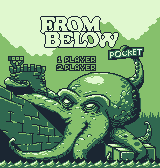
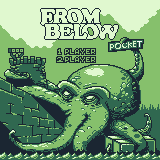
* Added proper Player 1/2 selection to new title screen. * Shifted title screen up on DMG. * Added new options screen.

diff --git a/gb/src/StateFromBelow.c b/gb/src/StateFromBelow.c
@@ -105,11 +105,13 @@ IMPORT_MAP(title_screen);
 IMPORT_MAP(title_screen_dmg);
 IMPORT_MAP(boot_screen);
 IMPORT_MAP(options_screen);
+IMPORT_MAP(options_screen_dmg);
 IMPORT_MAP(ty_screen);
 IMPORT_MAP(gameplay_map);
 
 IMPORT_TILES(font);
 IMPORT_TILES(font_on_black);
+IMPORT_TILES(font_options_bright);
 
 DECLARE_MUSIC(TitleMusic);
 DECLARE_MUSIC(GameplayMusic);
@@ -146,11 +148,10 @@ MUST:
 * Add GB Credits (add make more visible)
 * [SGB] Title screen colors are all wrong now.
 * [SGB] Options screen colors are wrong now.
-* Add "Pocket" to title screen.
+* Update "waiting for host" for new options screen.
 
 SHOULD:
 
-* Updated Options graphics.
 * [SGB] Long delay setting attributes. Can this be done with linear array?
 * [SIO] More variety in garbage.
 * [SIO] Play sound effect/visuals when garbage incoming.
@@ -158,6 +159,7 @@ SHOULD:
 * Bottom of well looks weird going straight into water.
 * High contrast mode.
 * Add Thank You.
+* When transitioning to gameplay from menu, the squish effect kicks in before transition is done, because fade is done inside state change.
 
 PROBABLY CUT:
 
@@ -167,7 +169,6 @@ PROBABLY CUT:
 * Try https://github.com/untoxa/VGM2GBSFX for alternate sfx driver (test integration with music, ROM size, clicking).
 * BUG: Sound Effects cut out music in an un-natural way.
 * BUG: Music sometimes has an extended first note.
-* Updated title screen.
 
 CNR:
 
@@ -986,8 +987,14 @@ void UPDATE()
 				{
 					sub_state = 1;
 					// Show the player options
-					PRINT(6,12,"1 PLAYER");
-					PRINT(6,13,"2 PLAYER");
+					UPDATE_TILE_BY_VALUE(7,6, '\x34', 0x10);
+					UPDATE_TILE_BY_VALUE(7,7, '\x43', 0x10);
+
+					for (local_start_x = 0; local_start_x < 4; ++local_start_x)
+					{
+						UPDATE_TILE_BY_VALUE(8 + local_start_x,6, 0x35 + local_start_x, 0x10);
+						UPDATE_TILE_BY_VALUE(8 + local_start_x,7, 0x35 + local_start_x, 0x10);
+					}
 				}
 			}
 			else if (sub_state == 1) // 1/2 Player State
@@ -1008,8 +1015,8 @@ void UPDATE()
 				}
 
 				// Cursor
-				sprite_data[1] = ((4) << 3) + SCREEN_START_X - 2 - tenatcle_offsets[(tick_count / 16) % 4];
-				sprite_data[0] = ((12 + cur_option) * 7) + SCREEN_START_Y - 1;
+				sprite_data[1] = ((6) << 3) + SCREEN_START_X - 2 - tenatcle_offsets[(tick_count / 16) % 4];
+				sprite_data[0] = ((6 + cur_option) << 3) + SCREEN_START_Y - 1;
 				sprite_data[2] = 16;
 				sprite_data[3] = 1 | (1 << 5);
 				memcpy(oam + (next_oam_idx << 2), sprite_data, sizeof(sprite_data));
@@ -1344,7 +1351,7 @@ void UPDATE()
 				switch (cur_option)
 				{
 
-				case 0: // starting level
+				case 1: // starting level
 
 					if (cur_level < 9 )
 					{
@@ -1356,7 +1363,7 @@ void UPDATE()
 					}
 					break;
 
-				case 1: // Attack style
+				case 0: // Attack style
 
 					//attack_style = (attack_style + 1) % ATTACK_NUM;
 
@@ -1417,7 +1424,7 @@ void UPDATE()
 				switch (cur_option)
 				{
 
-				case 0: // starting level
+				case 1: // starting level
 
 					if (cur_level != 0)
 					{
@@ -1429,7 +1436,7 @@ void UPDATE()
 					}
 					break;
 
-				case 1: // Attack style
+				case 0: // Attack style
 					// if (attack_style == 0)
 					// {
 					// 	attack_style = ATTACK_NUM;
@@ -1510,15 +1517,24 @@ void UPDATE()
 				display_options();
 			}
 
-			sprite_data[1] = (1 << 3) + SCREEN_START_X - 5 + tenatcle_offsets[(tick_count / 16) % 4];
-			sprite_data[0] = (((6) + (cur_option * 2)) * 7) + SCREEN_START_Y - 1;
+			// mode at the top
+			local_start_y = 3;
+
+			// jump down to the other options.
+			if (cur_option > 0)
+			{
+				local_start_y = cur_option + 6;
+			}
+
+			sprite_data[1] = (3 << 3) + SCREEN_START_X - 5 + tenatcle_offsets[(tick_count / 16) % 4];
+			sprite_data[0] = (local_start_y << 3) + SCREEN_START_Y;
 			sprite_data[2] = 16;
 			sprite_data[3] = 1;
 			memcpy(oam + (next_oam_idx << 2), sprite_data, sizeof(sprite_data));
 			next_oam_idx += sizeof(sprite_data) >> 2;
 
-			sprite_data[1] = (2 << 3) + SCREEN_START_X - 2 - tenatcle_offsets[(tick_count / 16) % 4];
-			sprite_data[0] = (((6) + (cur_option * 2)) * 7) + SCREEN_START_Y - 1;
+			sprite_data[1] = (4 << 3) + SCREEN_START_X - 2 - tenatcle_offsets[(tick_count / 16) % 4];
+			sprite_data[0] = (local_start_y << 3) + SCREEN_START_Y;
 			sprite_data[2] = 16;
 			sprite_data[3] = 1 | (1 << 5);
 			memcpy(oam + (next_oam_idx << 2), sprite_data, sizeof(sprite_data));
@@ -3461,6 +3477,12 @@ void go_to_state(unsigned char new_state)
 					InitScroll(BANK(title_screen_dmg), &title_screen_dmg, 0, 0);
 				}
 
+				for (i = 0; i < 5; ++i)
+				{
+					UPDATE_TILE_BY_VALUE(7+i, 6, 0xff, 0x10);
+					UPDATE_TILE_BY_VALUE(7+i, 7, 0xff, 0x10);
+				}
+
  				MUSIC_PLAY_ATTRACT_WRAPPER(MUSIC_TITLE);				
 
 				sgb_init_menu();
@@ -3575,8 +3597,20 @@ void go_to_state(unsigned char new_state)
 			option_state = 0;
 #else
 #if PLAT_GB
-			InitScroll(BANK(options_screen), &options_screen, 0, 0);
-			INIT_FONT(font, PRINT_BKG);
+
+			// Using PNG for backgrounds causes the DMG version to look bad
+			// because the palettes get mapped poorly. To avoid this, we just
+			// have a unique background for the DMG consoles.
+			if (_cpu == CGB_TYPE) 		
+			{		
+				InitScroll(BANK(options_screen), &options_screen, 0, 0);
+			}
+			else	
+			{		
+				InitScroll(BANK(options_screen_dmg), &options_screen_dmg, 0, 0);
+			}
+
+			INIT_FONT(font_options_bright, PRINT_BKG);
 
 			sgb_init_settings();
 
@@ -3616,7 +3650,7 @@ void go_to_state(unsigned char new_state)
 
 			if (!is_host)
 			{
-				PRINT(2, 2, "WAITING FOR HOST");
+				PRINT(6, 1, "WAITING.");
 			}
 #endif
 
@@ -4194,14 +4228,14 @@ void display_highscore()
 
 	// clear out any old score.
 	multi_vram_buffer_horz("0000000", 7, get_ppu_addr(0, 17<<3, 27<<3));
-	PRINT(11, 17, "0000000");
+	PRINT(6, 13, "00000000");
 
 	i = 0;
 	while(temp_score != 0)
     {
         unsigned char digit = temp_score % 10;
         one_vram_buffer('0' + digit, get_ppu_addr(0, (23<<3) - (i << 3), 27<<3 ));
-		PRINT(17 - i, 17, digits[digit]);
+		PRINT(13 - i, 13, digits[digit]);
 
         temp_score = temp_score / 10;
 		++i;
@@ -4843,15 +4877,17 @@ void display_options()
 	clear_vram_buffer();
 
 	multi_vram_buffer_horz(&starting_levels[cur_level], 1, get_ppu_addr(0,17<<3,start_y<<3));
-	PRINT(11,6, digits[cur_level]);
+	PRINT(15,7, digits[cur_level]);
 	multi_vram_buffer_horz(attack_style_strings[attack_style], ATTACK_STRING_LEN, get_ppu_addr(0,17<<3,(start_y+2)<<3));
-	PRINT(11,8, attack_style_strings[attack_style]);
+	PRINT(5,3, attack_style_strings[attack_style]);
+	PRINT(5,4, attack_style__desc_strings_01[attack_style]);
+	PRINT(5,5, attack_style__desc_strings_02[attack_style]);
 	multi_vram_buffer_horz(off_on_string[music_on], OFF_ON_STRING_LEN, get_ppu_addr(0,17<<3,(start_y+4)<<3));
-	PRINT(11,10, off_on_string[music_on]);
+	PRINT(13,8, off_on_string[music_on]);
 	multi_vram_buffer_horz(off_on_string[sfx_on], OFF_ON_STRING_LEN, get_ppu_addr(0,17<<3,(start_y+6)<<3));
-	PRINT(11,12, off_on_string[sfx_on]);
+	PRINT(13,9, off_on_string[sfx_on]);
 	multi_vram_buffer_horz(hard_drop_types[hard_drops_on], HARD_DROP_STRING_LEN, get_ppu_addr(0,17<<3,(start_y+8)<<3));
-	PRINT(11,14, hard_drop_types[hard_drops_on]);
+	PRINT(12,10, hard_drop_types[hard_drops_on]);
 
 	// // NOTE: One redundant call.
 	// multi_vram_buffer_horz(option_empty, 2, get_ppu_addr(0, 7<<3, (start_y)<<3));

diff --git a/gb/src/StateFromBelow.h b/gb/src/StateFromBelow.h
@@ -864,10 +864,22 @@ const unsigned char attack_style_strings[3][ATTACK_STRING_LEN] =
     "TIMED  ",
     "CLASSIC"
 };
+const unsigned char attack_style__desc_strings_01[3][16] = 
+{
+    "ATTACK WHEN    ",
+    "ATTACK EVERY   ",
+    "NO KRAKEN      "
+};
+const unsigned char attack_style__desc_strings_02[3][16] = 
+{
+    "BLOCK LANDS    ",
+    "10 SECONDS     ",
+    "CLASSIC PLAY   "
+};
 const unsigned char off_on_string[2][OFF_ON_STRING_LEN] = 
 {
     "OFF",
-    "ON "
+    " ON"
 };
 // Originally the game was going to feature different clusters, other than 
 // tetrominos, but that ended up getting cut. This is legacy from that and could
@@ -883,7 +895,7 @@ const unsigned char block_style_strings[2][BLOCK_STYLE_STRING_LEN] =
 // How long is the string used to display the harddrop setting name.
 #define HARD_DROP_STRING_LEN 5
 // The different types of hard drop.
-const unsigned char hard_drop_types[NUM_HARD_DROP_SETTINGS][HARD_DROP_STRING_LEN] = { "OFF ", "TAP ", "HOLD" };
+const unsigned char hard_drop_types[NUM_HARD_DROP_SETTINGS][HARD_DROP_STRING_LEN] = { " OFF", " TAP", "HOLD" };
 
 #if VS_SYS_ENABLED
 unsigned char auto_forward_leaderboards;
